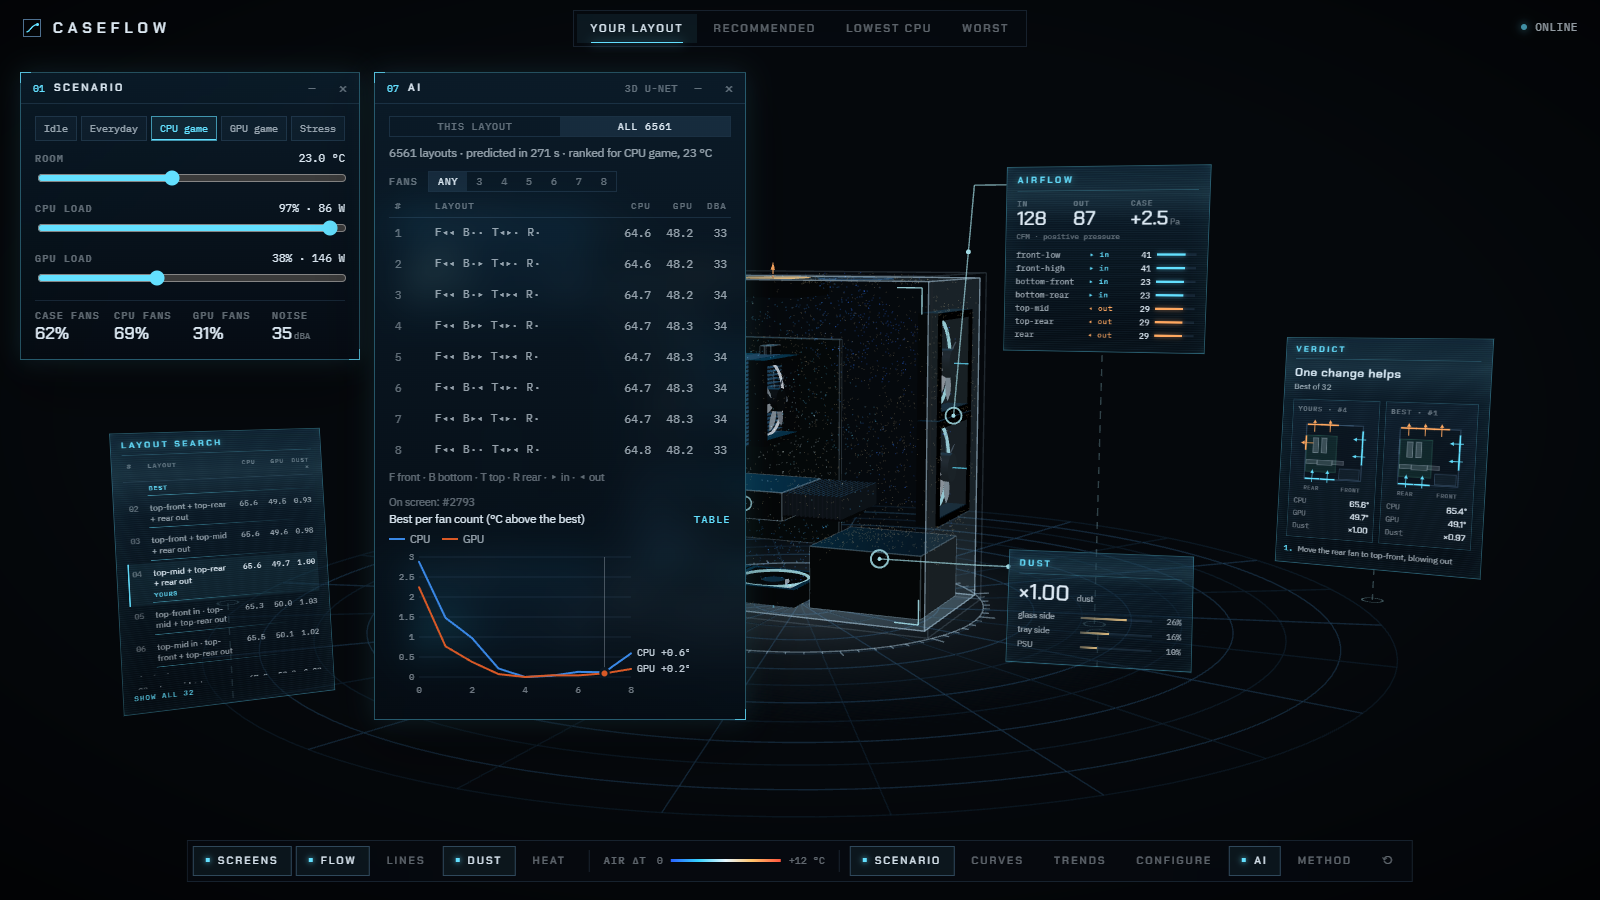
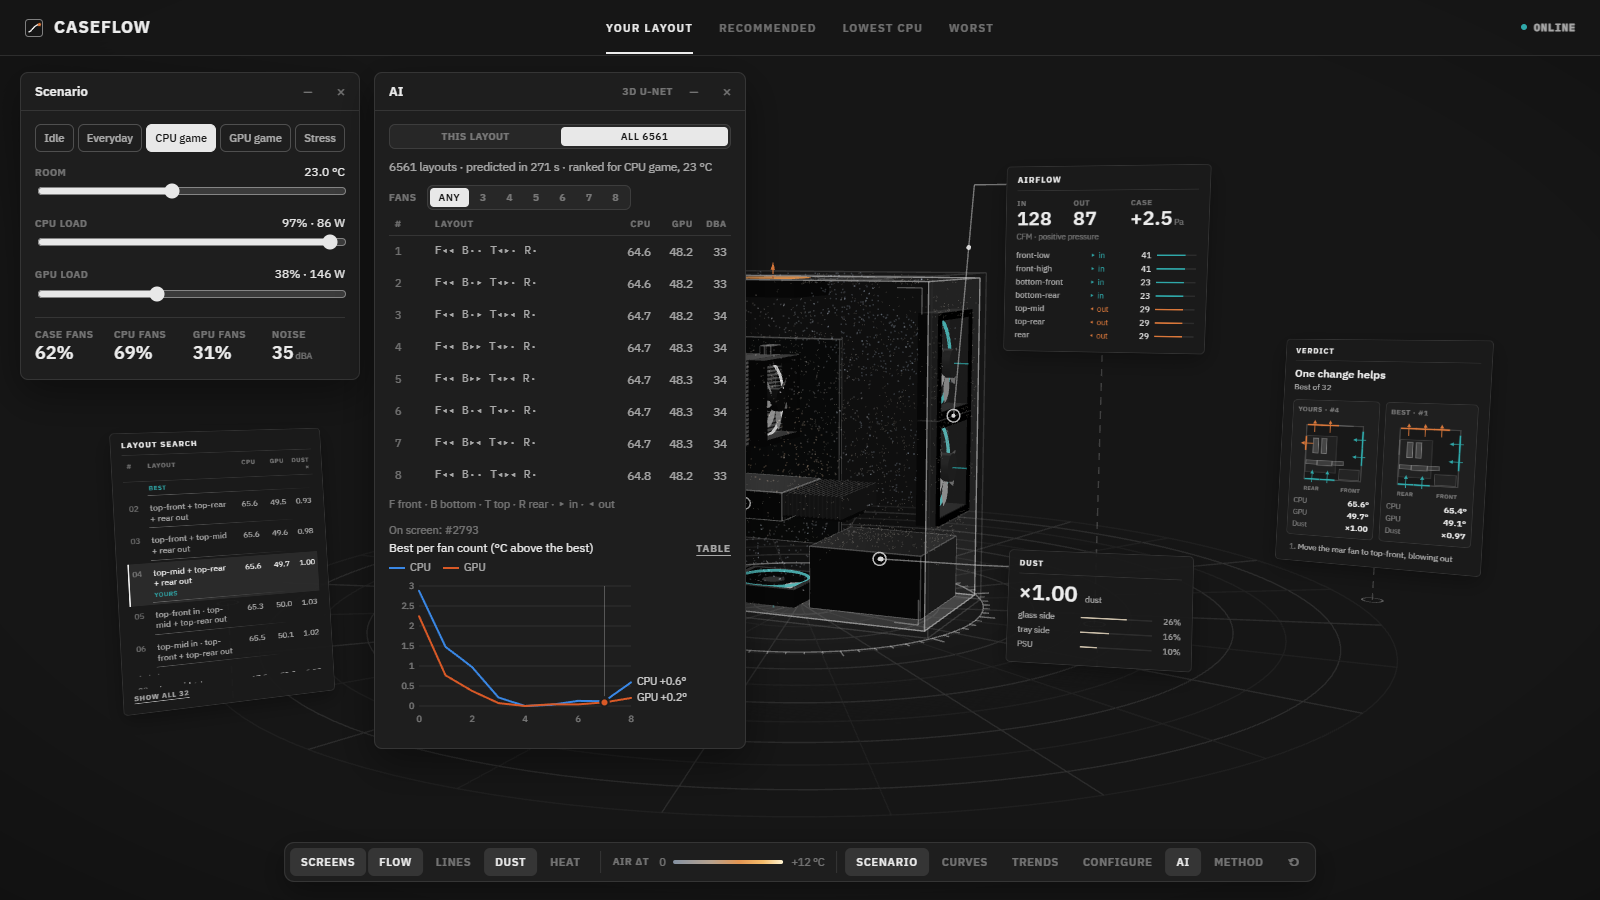
CaseFlow docs: the new look
Screenshots and the annotated interface tour in the new style (white
numbered marks); the guide and README describe the screens and colours
(teal in, copper out, the heat ramp, violet AI) and credit the Data to
Discovery projects for the look.

diff --git a/docs/make_figures.py b/docs/make_figures.py
@@ -418,7 +418,7 @@ def fig_dust():
 
 
 # ----------------------------------------------------------------------------- 10. annotated interface
-UI_MARKS = [(1, 374, 88), (2, 392, 168), (3, 402, 520), (4, 1004, 152), (5, 1006, 516), (6, 1284, 330), (7, 556, 28), (8, 200, 860), (9, 742, 380), (10, 104, 402)]
+UI_MARKS = [(1, 374, 88), (2, 392, 168), (3, 402, 520), (4, 1004, 152), (5, 1006, 516), (6, 1284, 330), (7, 584, 28), (8, 266, 862), (9, 742, 380), (10, 104, 402)]
 
 
 def fig_ui():
@@ -428,8 +428,8 @@ def fig_ui():
     dr = ImageDraw.Draw(im, "RGBA")
     font = ImageFont.truetype(matplotlib.font_manager.findfont("DejaVu Sans:bold"), 17)
     for k, x, y in UI_MARKS:
-        dr.ellipse([x - 15, y - 15, x + 15, y + 15], fill=(31, 159, 208, 235), outline=(232, 246, 255, 255), width=2)
-        dr.text((x, y), str(k), font=font, fill=(5, 8, 12, 255), anchor="mm")
+        dr.ellipse([x - 15, y - 15, x + 15, y + 15], fill=(236, 236, 236, 245), outline=(22, 22, 22, 255), width=2)
+        dr.text((x, y), str(k), font=font, fill=(20, 20, 20, 255), anchor="mm")
     im.save(OUT / "ui_tour.png")
     print("wrote ui_tour.png")
 

diff --git a/docs/GUIDE.md b/docs/GUIDE.md
@@ -38,7 +38,7 @@
 | **搜索** | 你那 3 个风扇放到 4 个空位里的任意 3 个，每个可以进风或出风，一共 **32 种**，每种一个 bank（约 50 分钟全部算完）。排名按你当前设的场景实时重算。 |
 | **结论** | **你现在的装法已经很好**：默认场景（吃 CPU 的游戏、23 °C）里排第 4，和第 1 名只差 0.9 °C（CPU + 显卡的总分）；前 4 名都是“3 个都往外吹”。<br>**可以小改**：把后部那个风扇挪到顶部最前面的空位、仍然往外吹（3 个都在顶部出风）。6 个场景里有 5 个排第 1，好处 0.3–1.4 °C；35 °C 满载、风扇都已全速时就打平了。<br>**最差的永远是后部进风**：带后部进风的 12 种，在所有场景里都是最后 12 名。<br>**负载轻时怎么装都差不多**：日常使用时 32 种只差 1.3 °C。 |
 | **AI** | 一个 3D U-Net 神经网络从 150 种装法的模拟里学会了预测 3D 气流和温度：约 **0.1 秒**一种（模拟约 90 秒）。16 种没参加训练的考试装法上，CPU 平均差 **0.44 °C**、显卡 **0.28 °C**（每种都猜平均值的话是 1.04 / 0.74 °C）。它把 8 个风扇位的全部 **6561 种**装法都预测了一遍，网页里按任何场景都能排名；界面里新装法直接显示网络的预测，需要时点 VERIFY 用模拟验证。 |
-| **界面** | 3D 机箱放在中间，周围浮着六块全息屏，每块用发光引线连到对应的部件上；Scenario、Fan curves、Trends 三个玻璃窗口用来改场景、改曲线、看趋势，AI 窗口对比网络和模拟。 |
+| **界面** | 3D 机箱放在中间，周围浮着六块信息屏，每块用一根细线连到对应的部件上；Scenario、Fan curves、Trends 三个窗口用来改场景、改曲线、看趋势，AI 窗口对比网络和模拟。 |
 
 ---
 
@@ -64,9 +64,11 @@ CaseFlow 只做模拟，不读这台电脑的硬件数据。
 
 ![界面导览](media/ui_tour.png)
 
-机箱周围浮着六块**全息屏**，每块用一根发光引线连到它描述的那个部件上。屏幕会跟着你的视角转，所以从哪个角度看都正对着你；引线和部件上的锚点固定在机箱里。
+机箱周围浮着六块**信息屏**，每块用一根细线连到它描述的那个部件上。屏幕会跟着你的视角转，所以从哪个角度看都正对着你；引线和部件上的锚点固定在机箱里。
 
-**全息屏可以拖动**：按住屏幕的标题栏拖到想要的位置，引线会跟着走；位置会记住，刷新页面也不变。双击标题栏放回原位，dock 最右边的 ⟲ 把所有屏幕和窗口一起复位。左上角那些玻璃窗口（Scenario、Fan curves 等）也是按住标题栏拖动。
+**信息屏可以拖动**：按住屏幕的标题栏拖到想要的位置，引线会跟着走；位置会记住，刷新页面也不变。双击标题栏放回原位，dock 最右边的 ⟲ 把所有屏幕和窗口一起复位。左上角那些窗口（Scenario、Fan curves 等）也是按住标题栏拖动。
+
+**外观**参考了 ArtCenter、JPL 和 Caltech 的 [Data to Discovery](https://datavis.caltech.edu/projects) 项目：中性的炭灰底色、平面卡片和细线，只有数据有颜色——青色 = 进风，铜橙色 = 出风，温度色带越热越亮，蓝紫色 = AI。
 
 | # | 屏幕 / 位置 | 内容 |
 |---|---|---|
@@ -77,8 +79,8 @@ CaseFlow 只做模拟，不读这台电脑的硬件数据。
 | ⑤ | **DUST**（引线 → 玻璃侧板前下角） | 外面的灰进来并落下的速度（以你的布局为 1），以及灰落在哪些面上。 |
 | ⑥ | **VERDICT**（右侧斜屏） | 在当前场景下，你的布局和最好（或最差）布局的对比，加上侧视示意图。 |
 | ⑦ | **视图切换** | Your layout · Recommended · Lowest CPU · Worst，排名都是按当前场景算的。 |
-| ⑧ | **底部 dock** | 图层开关：全息屏 Screens、气流粒子 Flow、流线 Lines、积灰 Dust、温度切片 Heat。中间是温度色标。右边是窗口：Scenario、Curves、Trends、Configure、AI、Method，以及 ⟲（视角和窗口复位）。 |
-| ⑨ | **引线和锚点** | 部件上的锚点会脉动，引线上有光点从部件流向屏幕。 |
+| ⑧ | **底部 dock** | 图层开关：信息屏 Screens、气流粒子 Flow、流线 Lines、积灰 Dust、温度切片 Heat。中间是温度色标。右边是窗口：Scenario、Curves、Trends、Configure、AI、Method，以及 ⟲（视角和窗口复位）。 |
+| ⑨ | **引线和锚点** | 部件上的锚点是一个白色圆环，引线上有小点从部件流向屏幕。 |
 | ⑩ | **LAYOUT SEARCH**（左侧斜屏） | 32 种布局按当前场景的排名：CPU / 显卡温度、积灰速度。点任意一行就切到那种布局。改室温、负载或曲线时，排名会跟着重排。 |
 
 **另外几个窗口**（从 dock 打开）：
@@ -93,11 +95,11 @@ CaseFlow 只做模拟，不读这台电脑的硬件数据。
 **怎么看 3D 场景**：
 - **操作**：鼠标左键拖动旋转，滚轮缩放，右键平移。
 - **视角**：默认从玻璃侧板偏前面板的角度看，前面板在右边，和你桌上的电脑一样。
-- **风扇**：灯圈青色 = 进风，琥珀色 = 出风；扇叶按算出来的转速转，显卡风扇停转时就不转。
-- **气流粒子**：沿着算出来的风走，颜色表示那里的空气比室温高多少（蓝 → 青 → 白 → 琥珀 → 红，0 到 +12 °C）。改负载、改室温时颜色立刻变。
+- **风扇**：青色 = 进风，铜橙色 = 出风；扇叶按算出来的转速转，显卡风扇停转时就不转。
+- **气流粒子**：沿着算出来的风走，颜色表示那里的空气比室温高多少（石板灰 → 暖灰 → 橙 → 淡黄，越热越亮，0 到 +12 °C）。改负载、改室温时颜色立刻变。
 - **积灰点**：土黄色的点，表示灰最后停下来的位置。
 - **温度切片**：从显卡中间切一刀，越热的地方越不透明，看起来像热浪。
-- **差值**：看别的布局时，屏幕上会显示和你的布局的差值。青色 = 更好，琥珀色 = 更差。
+- **差值**：看别的布局时，屏幕上会显示和你的布局的差值。青色 = 更好，铜橙色 = 更差。
 
 | 满载 + 35 °C 室温 + 温度切片 + 风扇曲线 | 点风扇弹出的菜单 |
 |---|---|
@@ -570,15 +572,15 @@ caseflow/
 │                           surrogate/：数据集、训练好的网络（caseflow_unet.pt）、训练记录、考试成绩、AI 验证结果
 ├─ tests/                   test_engine.py · test_bank.py · test_scenario.py · test_surrogate.py（不用显卡）
 ├─ web/src/
-│  ├─ App.tsx               场景状态、排名、窗口（Scenario / Fan curves / Trends / Configure / Method）、全息屏
+│  ├─ App.tsx               场景状态、排名、窗口（Scenario / Fan curves / Trends / Configure / AI / Method）、信息屏
 │  ├─ scenario.ts           浏览器里的稳态求解（engine/scenario.py 的逐行移植）
 │  ├─ fields.ts             解码 bank 的 3D 场，按场景合成温度场
 │  ├─ ai.ts · aiWorker.ts   网络预测的设计空间；在后台线程里给 6561 种装法排名
 │  ├─ AiWindow.tsx          AI 窗口：网络 vs 模拟、模型卡、全部装法的排名
-│  ├─ Scene.tsx             three.js 场景：机箱、风扇、流线、粒子、温度切片、积灰、全息屏
+│  ├─ Scene.tsx             three.js 场景：机箱、风扇、流线、粒子、温度切片、积灰、信息屏
 │  ├─ CurveEditor.tsx       风扇曲线编辑器
 │  ├─ TrendChart.tsx        趋势图（十字线提示、图例、表格视图）
-│  ├─ Holo.tsx              全息屏：外框、温度仪表、各个面板
+│  ├─ Holo.tsx              信息屏：卡片、温度仪表、各个面板
 │  ├─ HudWindow.tsx         可拖动、折叠的玻璃窗口
 │  └─ streamlines.ts · models.ts · viewer.ts · palette.ts
 └─ docs/                    这份讲解、图（make_figures.py、make_ai_figures.py）、截图、视频（make_video.py）

diff --git a/README.md b/README.md
@@ -208,7 +208,7 @@ docs/             guide, figures, screenshots, video
 
 ## Interface
 
-The 3D case sits in the middle of six floating holographic screens, each wired to its part by a glowing leader line. Drag a screen by its title to move it (the place is remembered); double-click the title to put it back, or ⟲ in the dock for all of them:
+The 3D case sits in the middle of six floating screens, each wired to its part by a thin leader line. The look follows the [Data to Discovery](https://datavis.caltech.edu/projects) projects (ArtCenter / JPL / Caltech): neutral charcoal, flat panels and hairlines, colour only on the data - teal air in, copper air out, a heat ramp that brightens with temperature, violet for the AI. Drag a screen by its title to move it (the place is remembered); double-click the title to put it back, or ⟲ in the dock for all of them:
 
 - **CPU** and **GPU**: temperature gauge, intake air rise, power (and throttling), fan rpm ("off" when the GPU fans idle).
 - **Airflow**: in / out CFM, case pressure, and every fan's flow and speed.
